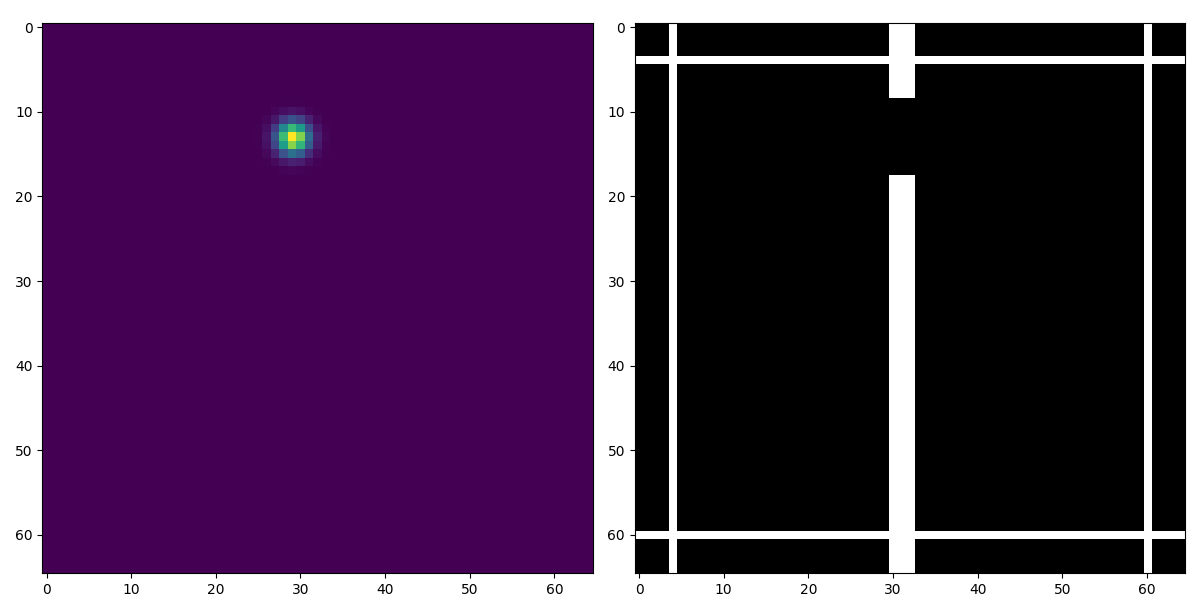
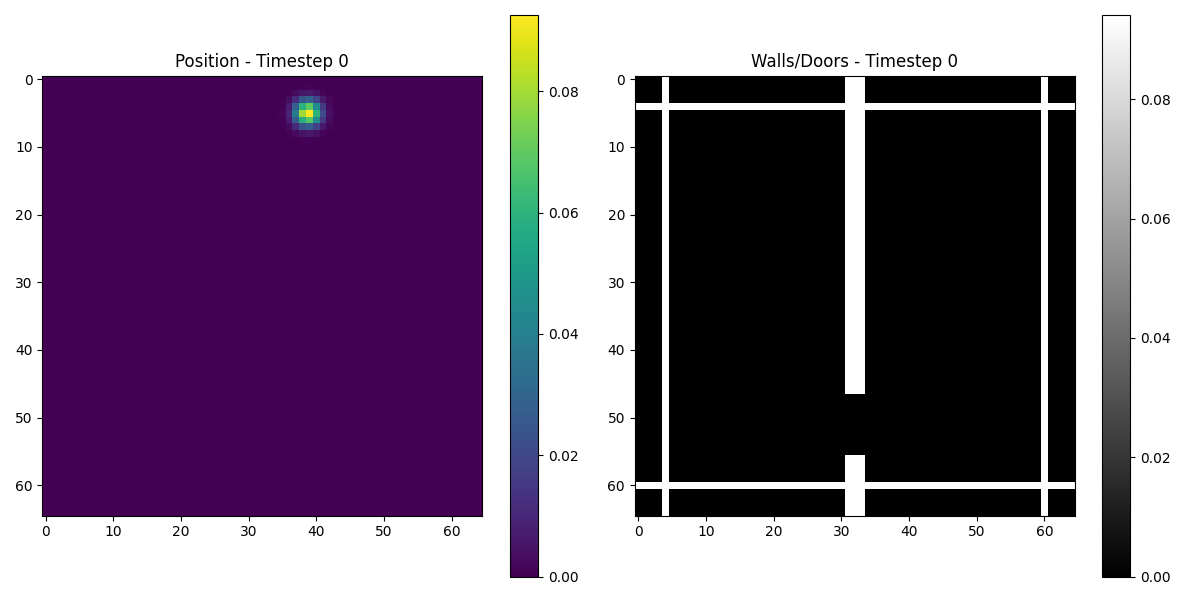
add colorbar

diff --git a/output.py b/output.py
@@ -35,14 +35,14 @@ def plot_image(position, walls):
         fig = plt.figure(figsize=(12, 6))
 
         a = fig.add_subplot(1, 2, 1)
-        a.imshow(position, cmap="viridis")
-        #a.title("Position - Timestep 0")
-        #a.colorbar()
+        im_a = a.imshow(position, cmap="viridis")
+        a.set_title("Position - Timestep 0")
+        fig.colorbar(im_a, ax=a)
 
         b = fig.add_subplot(1, 2, 2)
-        b.imshow(walls, cmap="gray")
-        #b.title("Walls/Doors - Timestep 0")
-        #b.colorbar()
+        im_b = b.imshow(walls, cmap="gray")
+        b.set_title("Walls/Doors - Timestep 0")
+        fig.colorbar(im_b, ax=b)
 
         fig.tight_layout()
         fig.savefig('traject.png')
